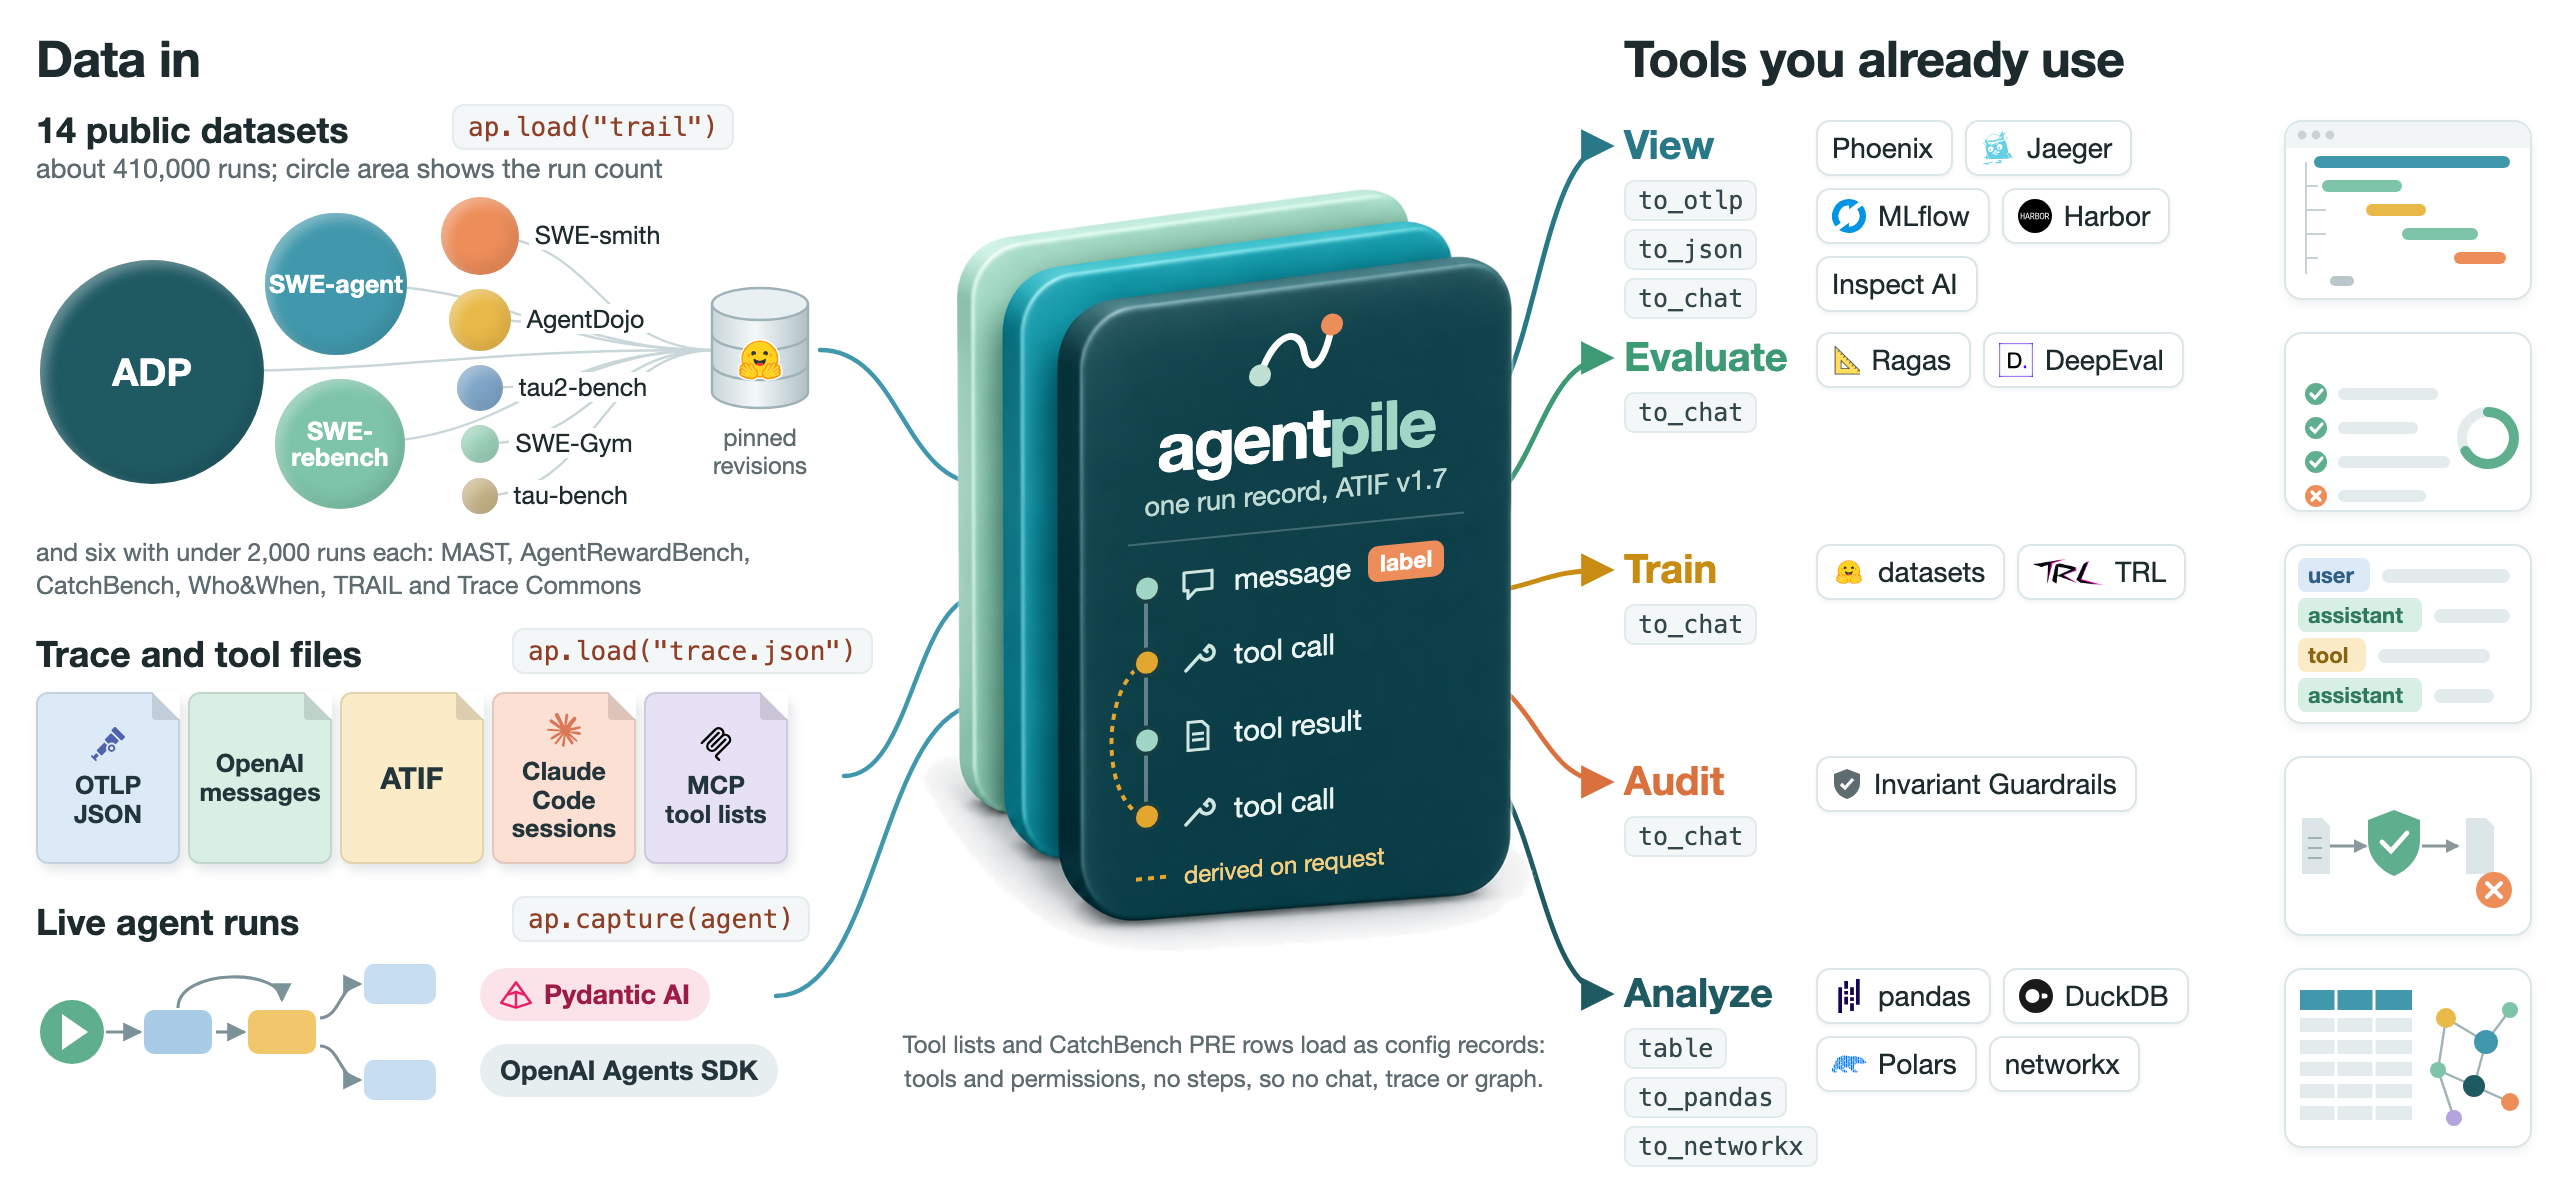
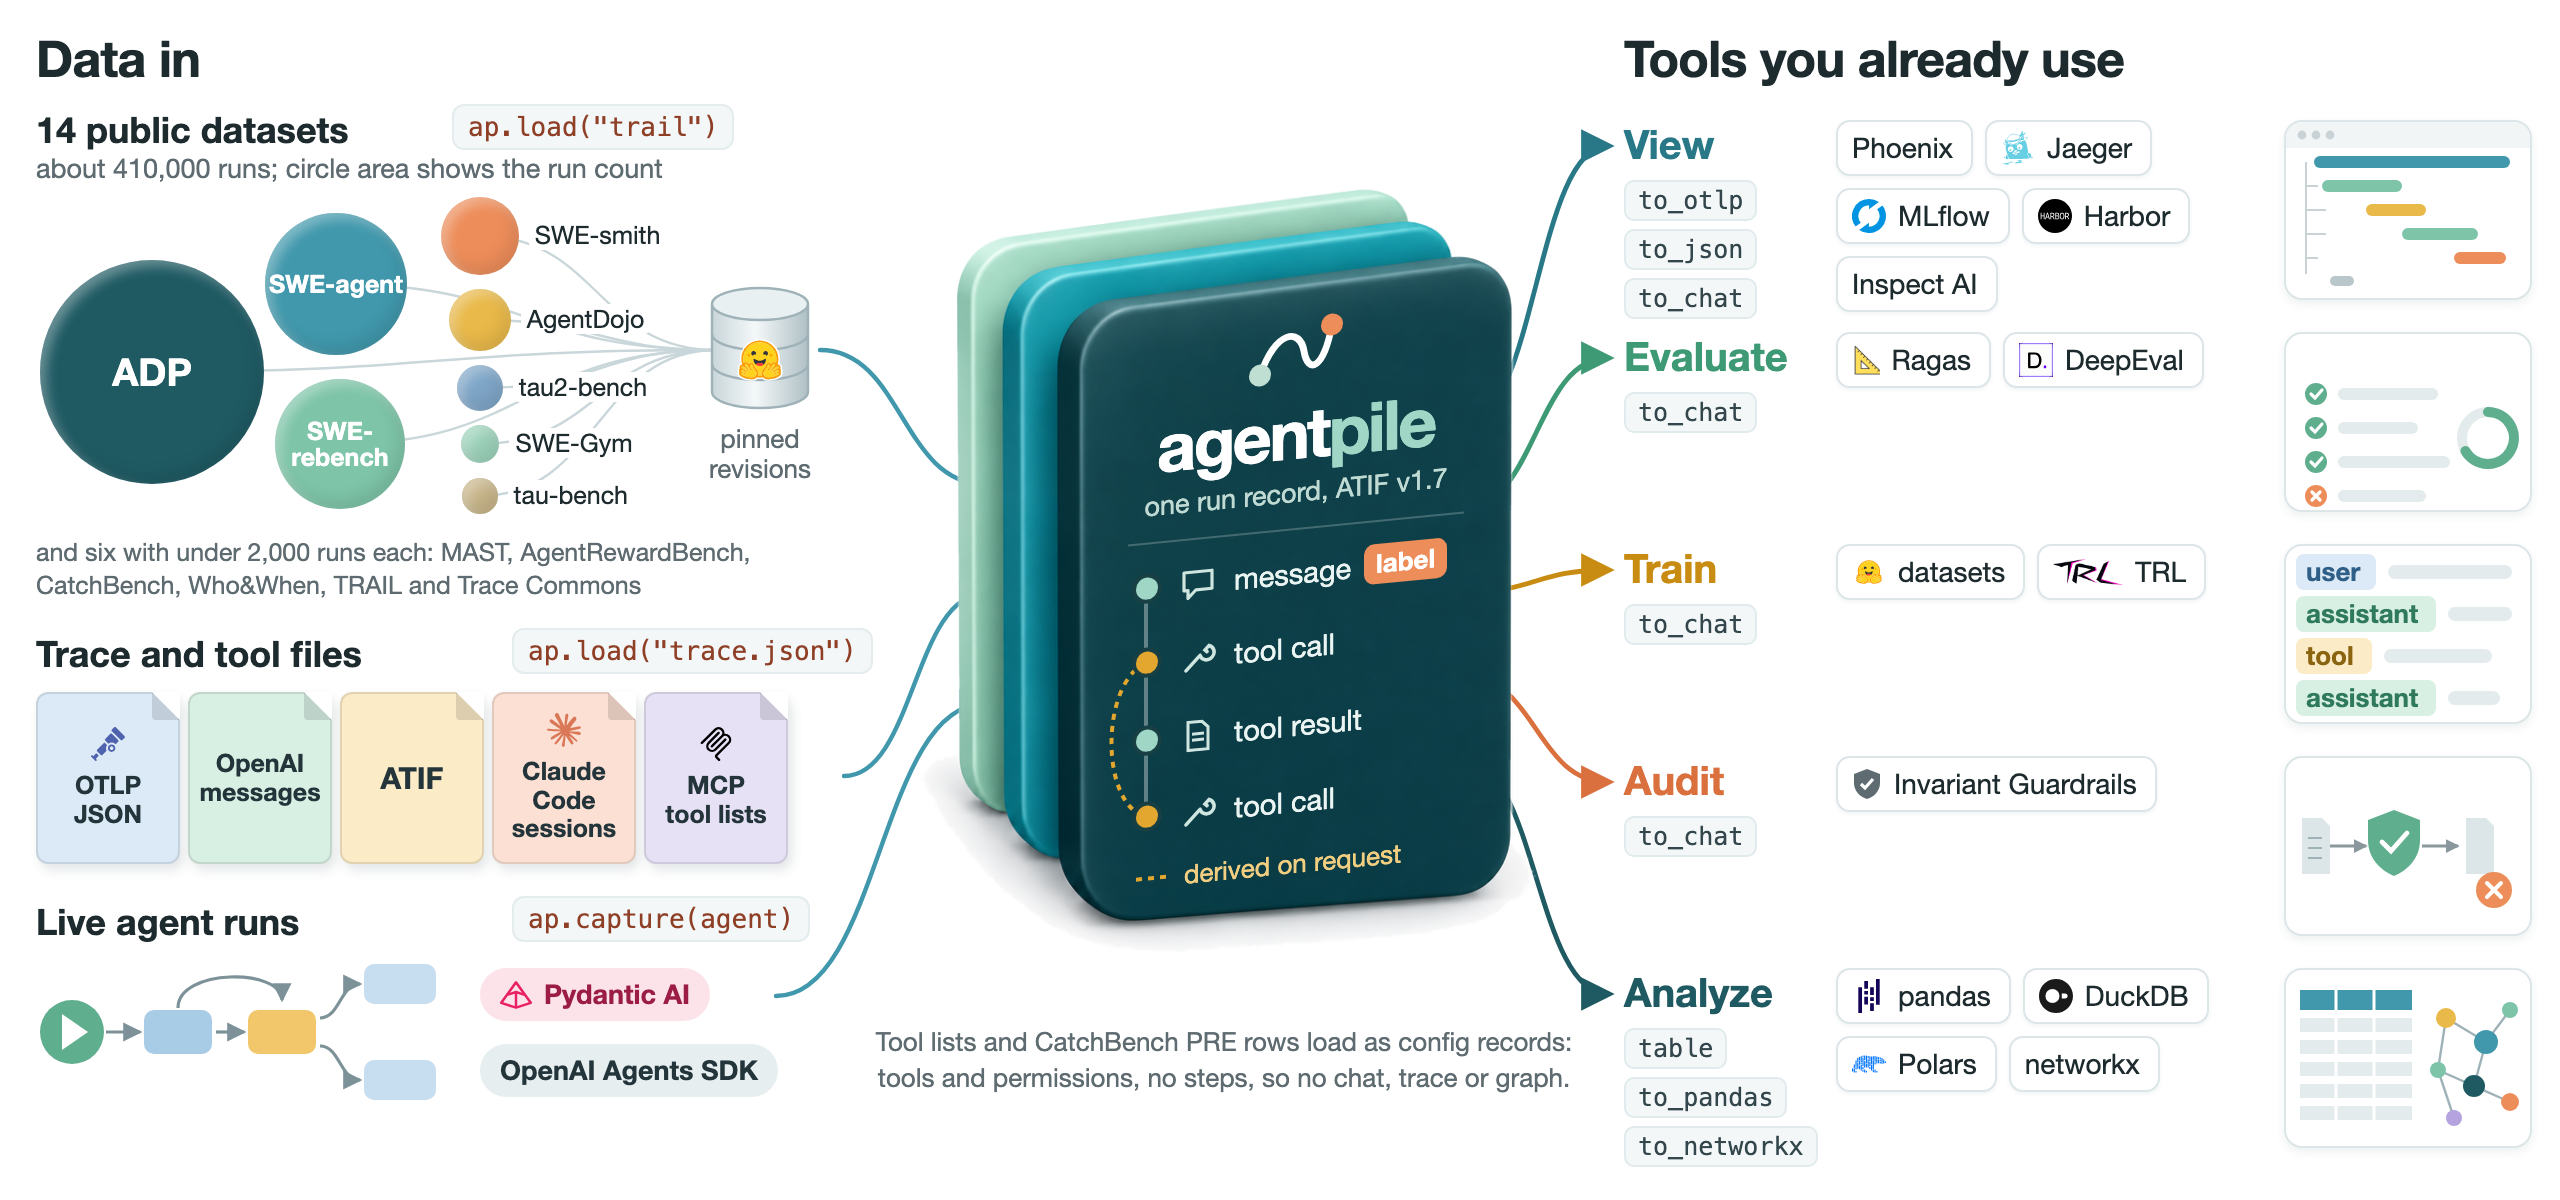
Enlarge the overview figure's small text; date 0.3.0 in the CHANGELOG

diff --git a/assets/overview/overview.html b/assets/overview/overview.html
@@ -45,7 +45,7 @@
   .tile { display: inline-flex; align-items: center; gap: 6px; height: 26px; padding: 0 9px 0 7px; background: #fff; border: 1px solid var(--tileb);
           border-radius: 7px; font-size: 14px; color: var(--ink); white-space: nowrap; box-shadow: 0 1px 2px rgba(20,50,60,.06); }
   .tile img { height: 17px; }
-  .tiles { position: absolute; display: flex; flex-wrap: wrap; gap: 6px; width: 228px; }
+  .tiles { position: absolute; display: flex; flex-wrap: wrap; gap: 6px; width: 220px; }
 
   /* lanes */
   .lane { position: absolute; left: 812px; width: 452px; height: 100px; }
@@ -92,7 +92,7 @@
     <ellipse cx="28" cy="12" rx="24" ry="8" fill="#E9F0F2" stroke="#9FB2B8" stroke-width="1.2"/>
   </svg>
   <img class="abs" src="logos/hf-logo.svg" style="left:366px; top:166px; height:28px;">
-  <div class="abs gsub" style="left:338px; top:212px; font-size:12px; text-align:center; width:84px; line-height:1.15;">pinned<br>revisions</div>
+  <div class="abs gsub" style="left:338px; top:212px; font-size:13px; text-align:center; width:84px; line-height:1.15;">pinned<br>revisions</div>
 
   <div class="abs gtitle" style="left:18px; top:316px;">Trace and tool files</div>
   <div id="sheets" class="abs" style="left:18px; top:344px; width:400px; height:90px;">
@@ -140,17 +140,17 @@
     </svg>
     <div class="row" style="top:126px;"><span class="node" style="background:#9FD6C6"></span>
       <svg width="18" height="16" viewBox="0 0 18 16"><path d="M2 2 H16 V11 H8 L4 15 V11 H2 z" fill="none" stroke="#CFE5E0" stroke-width="1.6" stroke-linejoin="round"/></svg>message</div>
-    <div class="abs" style="left:138px; top:125px; font-size:11.5px; font-weight:700; color:#fff; background:#ED8D5A; padding:2px 6px; border-radius:5px;">label</div>
+    <div class="abs" style="left:136px; top:124px; font-size:13px; font-weight:700; color:#fff; background:#ED8D5A; padding:2px 6px; border-radius:5px;">label</div>
     <div class="row" style="top:163px;"><span class="node" style="background:#E3A72F"></span>
       <svg width="18" height="16" viewBox="0 0 18 16"><path d="M3 14 L10 7 M10 7 A3.6 3.6 0 1 0 14.5 2.5 L12.5 4.5 L13.5 5.5" fill="none" stroke="#CFE5E0" stroke-width="1.8" stroke-linecap="round"/></svg>tool call</div>
     <div class="row" style="top:202px;"><span class="node" style="background:#9FD6C6"></span>
       <svg width="18" height="16" viewBox="0 0 18 16"><path d="M4 1 H11 L14 4 V15 H4 z M6 7 H12 M6 10 H12" fill="none" stroke="#CFE5E0" stroke-width="1.5"/></svg>tool result</div>
     <div class="row" style="top:240px;"><span class="node" style="background:#E3A72F"></span>
       <svg width="18" height="16" viewBox="0 0 18 16"><path d="M3 14 L10 7 M10 7 A3.6 3.6 0 1 0 14.5 2.5 L12.5 4.5 L13.5 5.5" fill="none" stroke="#CFE5E0" stroke-width="1.8" stroke-linecap="round"/></svg>tool call</div>
-    <div class="abs" style="left:46px; top:273px; font-size:12px; color:#F2CE80; white-space:nowrap;">derived on request</div>
+    <div class="abs" style="left:46px; top:272px; font-size:13px; color:#F2CE80; white-space:nowrap;">derived on request</div>
   </div>
 
-  <div class="abs gsub" style="left:420px; top:514px; width:384px; text-align:center; font-size:12px; line-height:1.4; white-space:nowrap;">
+  <div class="abs gsub" style="left:420px; top:512px; width:384px; text-align:center; font-size:13px; line-height:1.4; white-space:nowrap;">
     Tool lists and CatchBench PRE rows load as config records:<br>tools and permissions, no steps, so no chat, trace or graph.</div>
 
   <!-- ===================== right: tools ===================== -->
@@ -159,7 +159,7 @@
   <div id="lane-view" class="lane" style="top:56px;">
     <div class="lname" style="color:#287887">View</div>
     <div class="chips"><span class="chip">to_otlp</span><span class="chip">to_json</span><span class="chip">to_chat</span></div>
-    <div class="tiles" style="left:96px; top:4px;">
+    <div class="tiles" style="left:106px; top:4px;">
       <span class="tile">Phoenix</span><span class="tile"><img src="logos/jaeger.svg">Jaeger</span>
       <span class="tile"><img src="logos/mlflow.svg">MLflow</span><span class="tile"><img src="logos/harbor-favicon.svg">Harbor</span>
       <span class="tile">Inspect AI</span>
@@ -179,7 +179,7 @@
   <div id="lane-eval" class="lane" style="top:162px;">
     <div class="lname" style="color:#3E9A75">Evaluate</div>
     <div class="chips"><span class="chip">to_chat</span></div>
-    <div class="tiles" style="left:96px; top:4px;">
+    <div class="tiles" style="left:106px; top:4px;">
       <span class="tile"><img src="logos/ragas.png">Ragas</span><span class="tile"><img src="logos/deepeval-icon.svg">DeepEval</span>
     </div>
     <svg class="card" viewBox="0 0 122 88">
@@ -194,24 +194,24 @@
   <div id="lane-train" class="lane" style="top:268px;">
     <div class="lname" style="color:#C98C12">Train</div>
     <div class="chips"><span class="chip">to_chat</span></div>
-    <div class="tiles" style="left:96px; top:4px;">
+    <div class="tiles" style="left:106px; top:4px;">
       <span class="tile"><img src="logos/hf-logo.svg">datasets</span><span class="tile"><img src="logos/trl.png" style="height:13px">TRL</span>
     </div>
     <svg class="card" viewBox="0 0 122 88">
-      <g font-family="Helvetica Neue, Arial" font-size="11" font-weight="700">
-        <rect x="6" y="6" width="36" height="17" rx="4" fill="#DCEAF7"/><text x="11" y="18.5" fill="#2F5E86">user</text>
-        <rect x="6" y="26" width="62" height="17" rx="4" fill="#D8EFE4"/><text x="11" y="38.5" fill="#2F7A5C">assistant</text>
-        <rect x="6" y="46" width="34" height="17" rx="4" fill="#FBEBC6"/><text x="11" y="58.5" fill="#8A6411">tool</text>
-        <rect x="6" y="66" width="62" height="17" rx="4" fill="#D8EFE4"/><text x="11" y="78.5" fill="#2F7A5C">assistant</text>
+      <g font-family="Helvetica Neue, Arial" font-size="13" font-weight="700">
+        <rect x="5" y="4" width="40" height="18" rx="4" fill="#DCEAF7"/><text x="10" y="17.5" fill="#2F5E86">user</text>
+        <rect x="5" y="25" width="70" height="18" rx="4" fill="#D8EFE4"/><text x="10" y="38.5" fill="#2F7A5C">assistant</text>
+        <rect x="5" y="46" width="38" height="18" rx="4" fill="#FBEBC6"/><text x="10" y="59.5" fill="#8A6411">tool</text>
+        <rect x="5" y="67" width="70" height="18" rx="4" fill="#D8EFE4"/><text x="10" y="80.5" fill="#2F7A5C">assistant</text>
       </g>
-      <g fill="#E3EBED"><rect x="48" y="11.5" width="64" height="7" rx="3.5"/><rect x="74" y="31.5" width="38" height="7" rx="3.5"/><rect x="46" y="51.5" width="56" height="7" rx="3.5"/><rect x="74" y="71.5" width="30" height="7" rx="3.5"/></g>
+      <g fill="#E3EBED"><rect x="51" y="9.5" width="62" height="7" rx="3.5"/><rect x="81" y="30.5" width="32" height="7" rx="3.5"/><rect x="49" y="51.5" width="54" height="7" rx="3.5"/><rect x="81" y="72.5" width="26" height="7" rx="3.5"/></g>
     </svg>
   </div>
 
   <div id="lane-audit" class="lane" style="top:374px;">
     <div class="lname" style="color:#D9703D">Audit</div>
     <div class="chips"><span class="chip">to_chat</span></div>
-    <div class="tiles" style="left:96px; top:4px;">
+    <div class="tiles" style="left:106px; top:4px;">
       <span class="tile"><svg width="15" height="17" viewBox="0 0 15 17"><path d="M7.5 1 L14 3.5 V8 C14 12 11 15 7.5 16 C4 15 1 12 1 8 V3.5 z" fill="#5E6B70"/><path d="M4.5 8.5 l2 2 l4 -4.5" stroke="#fff" stroke-width="1.6" fill="none"/></svg>Invariant Guardrails</span>
     </div>
     <svg class="card" viewBox="0 0 122 88">
@@ -228,7 +228,7 @@
   <div id="lane-analyze" class="lane" style="top:480px;">
     <div class="lname" style="color:#1F5A63">Analyze</div>
     <div class="chips"><span class="chip">table</span><span class="chip">to_pandas</span><span class="chip">to_networkx</span></div>
-    <div class="tiles" style="left:96px; top:4px;">
+    <div class="tiles" style="left:106px; top:4px;">
       <span class="tile"><img src="logos/pandas.svg">pandas</span><span class="tile"><img src="logos/duckdb.svg">DuckDB</span>
       <span class="tile"><img src="logos/polars.svg">Polars</span><span class="tile">networkx</span>
     </div>

diff --git a/CHANGELOG.md b/CHANGELOG.md
@@ -2,7 +2,7 @@
 
 All notable changes to agentpile are listed here. Versions follow [Semantic Versioning](https://semver.org/); before 1.0, a minor version may change the record format, and the entry says how.
 
-## 0.3.0 (2026-10-23)
+## 0.3.0 (2026-10-24)
 
 A reader for the session files Claude Code writes, with their subagent files, and the `trace_commons` dataset of 28 public sessions read with it. The record format and every existing reader are unchanged.
 
